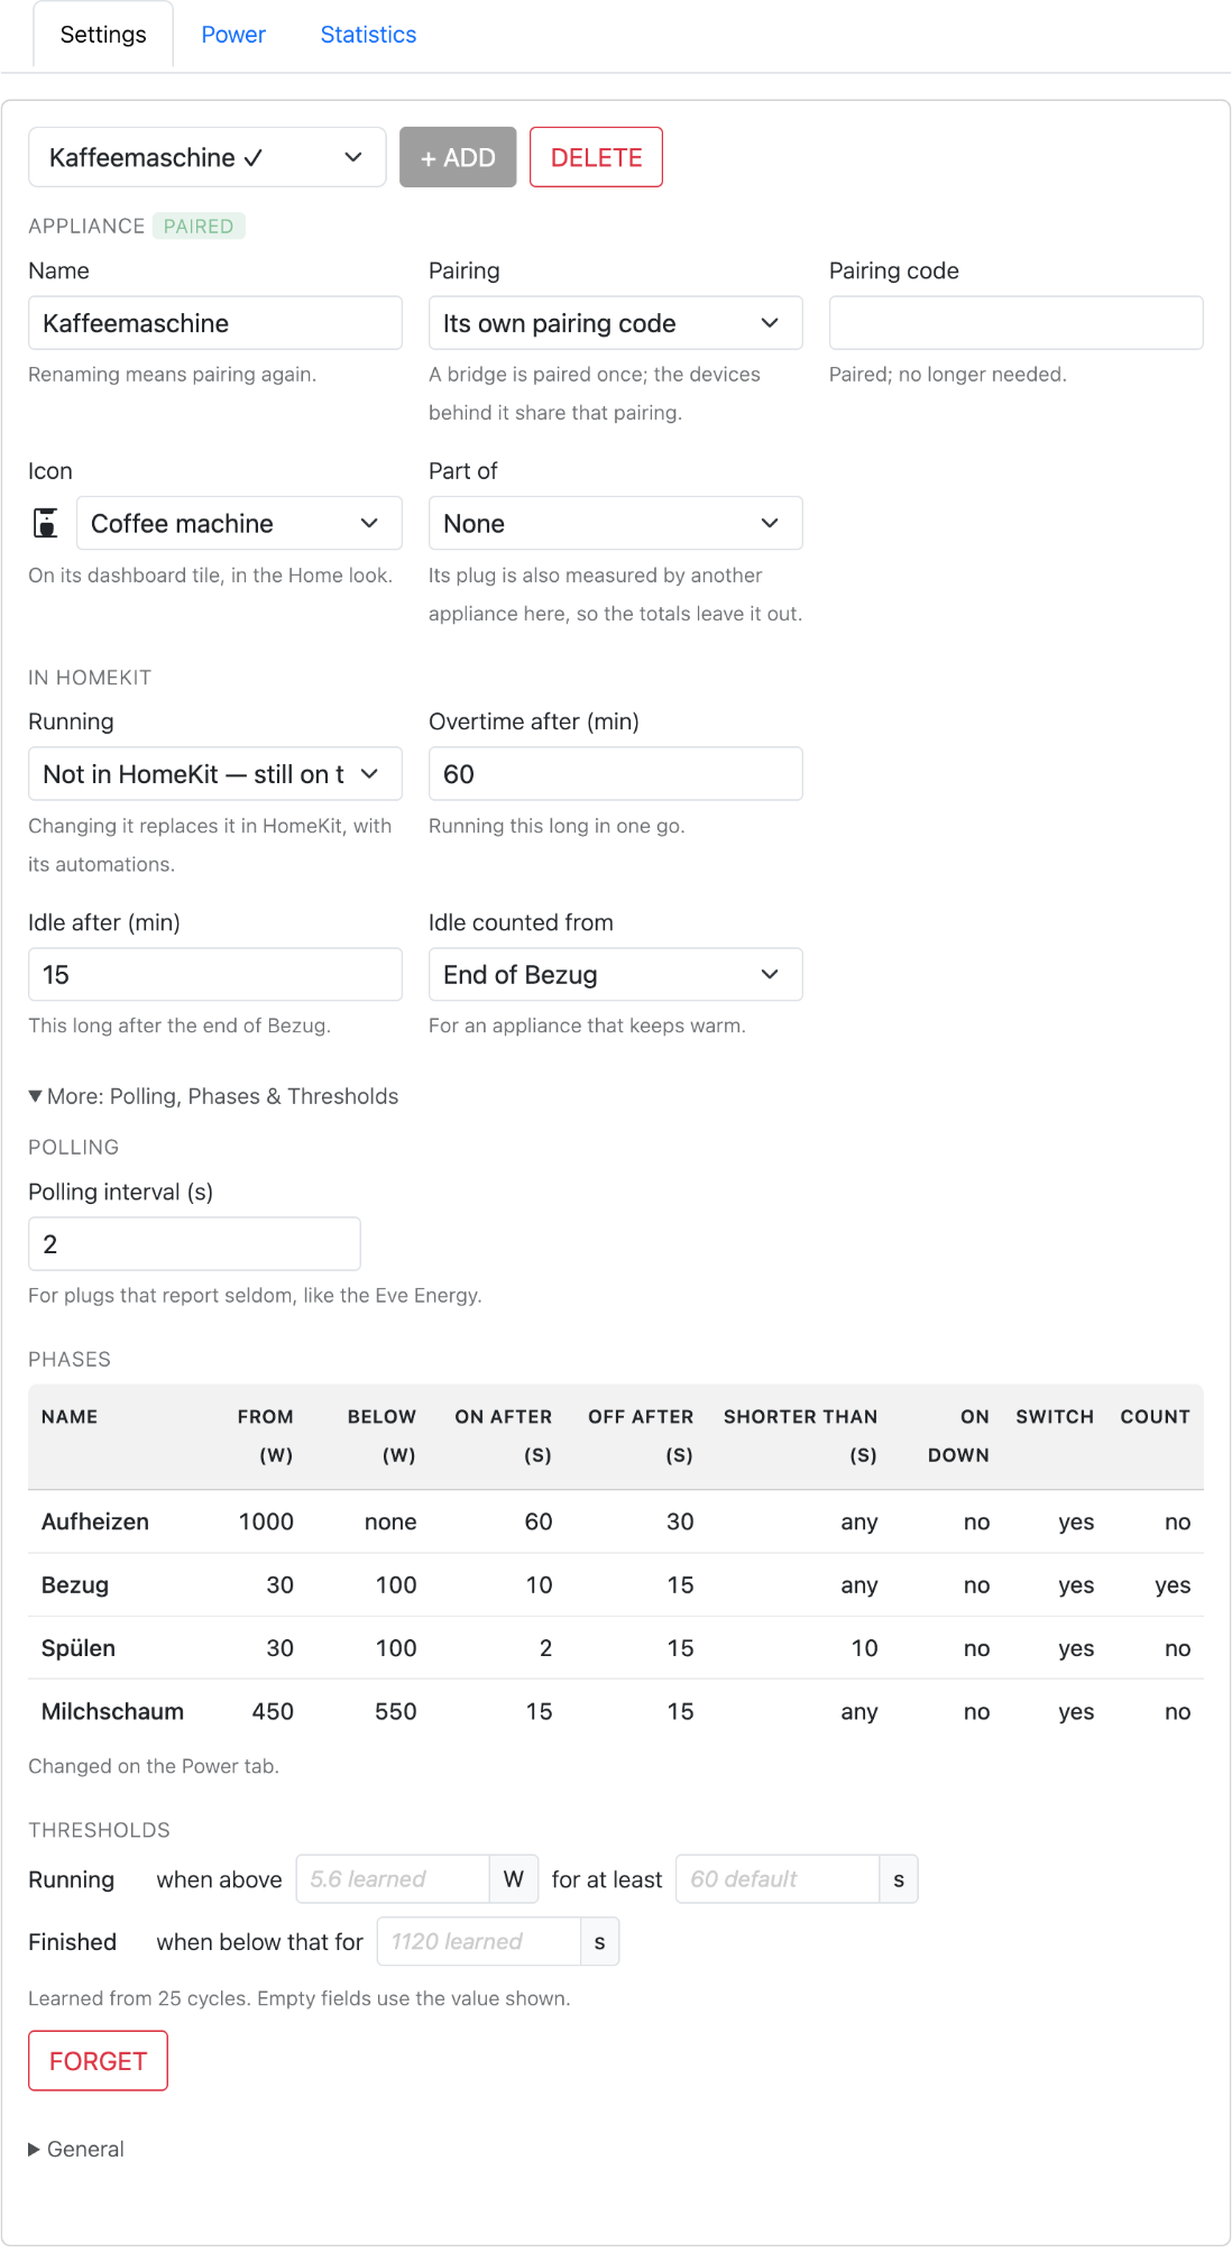
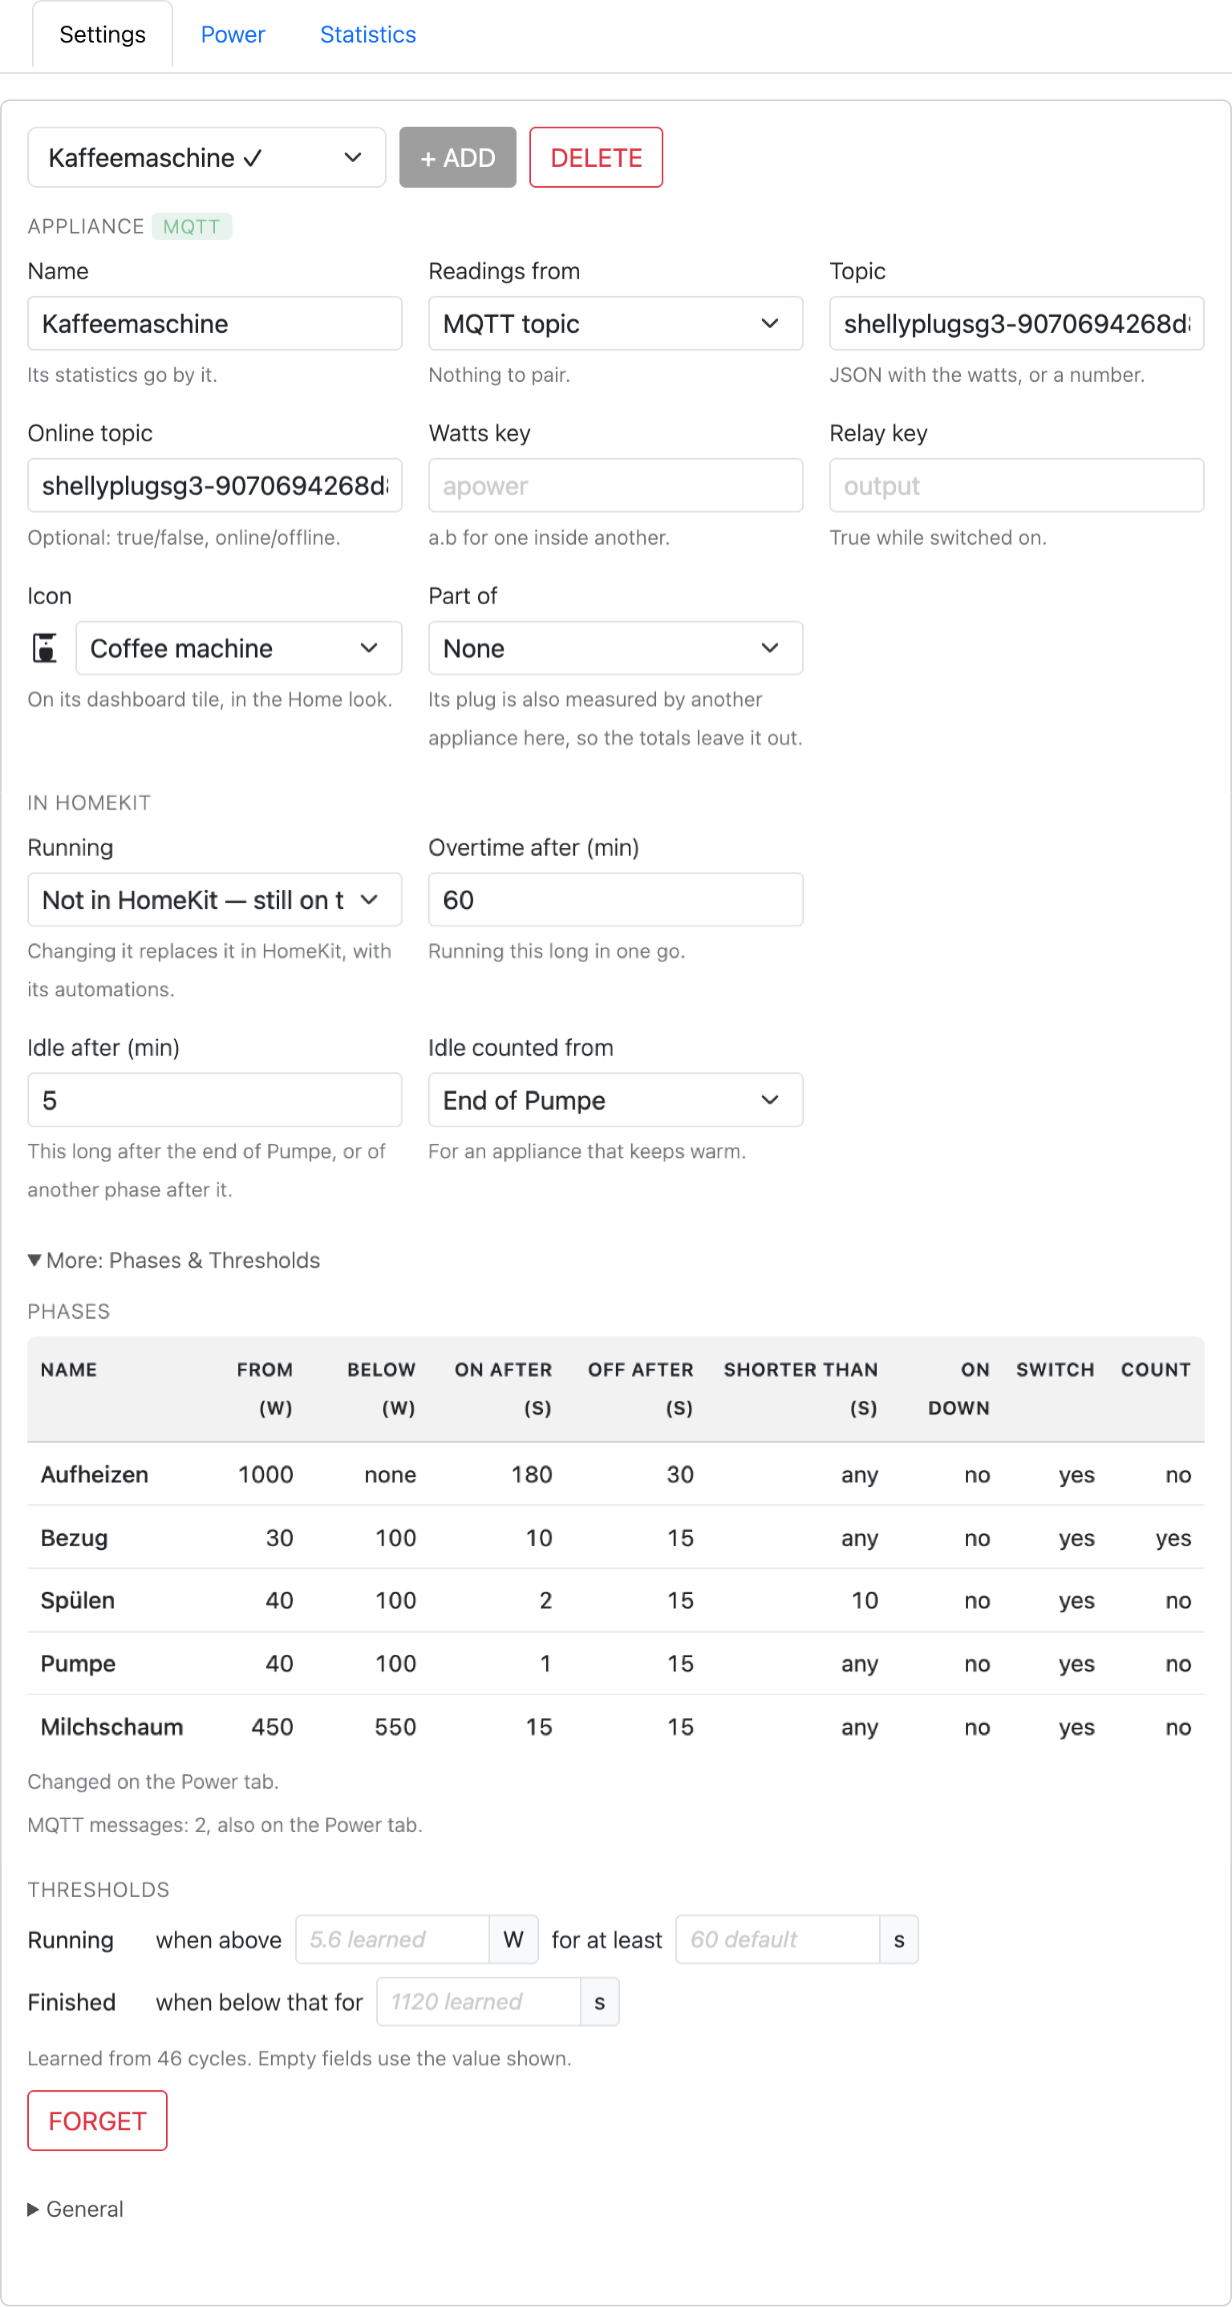
Settings: Readings from takes in the bridge's pairing, one row fewer; new settings screenshot
Claude-Session: https://claude.ai/code/session_01FXXeyGX9nkbXjdAycGNCsJ

diff --git a/homebridge-ui/public/settings.js b/homebridge-ui/public/settings.js
@@ -366,23 +366,6 @@
       // while chosen and not filled in yet.
       const viaMqtt = typeof device.mqttTopic === 'string';
       const topicError = (value) => (typeof value === 'string' && /[+#]/.test(value) ? 'One topic exactly: no + or #.' : '');
-      const readingsField = field('Readings from',
-        choice(viaMqtt ? 'mqtt' : 'matter', [['matter', 'Matter pairing'], ['mqtt', 'MQTT topic']], (value) => {
-          if (value === 'mqtt') {
-            device.mqttTopic = device.mqttTopic ?? '';
-            // A bridge's device is Matter's; the code stays, for going back.
-            for (const key of ['pairedWith', 'deviceId', 'endpoint']) {
-              delete device[key];
-            }
-          } else {
-            for (const key of ['mqttTopic', 'mqttOnlineTopic', 'mqttPowerKey', 'mqttRelayKey']) {
-              delete device[key];
-            }
-          }
-          changed();
-          render();
-        }),
-        viaMqtt && config.mqtt !== true ? 'MQTT is off: switch it on under General.' : 'A Shelly can publish its own.');
       const mqttFields = viaMqtt
         ? [
           field('Topic', text(device.mqttTopic, 'shellyplugsg3-…/status/switch:0', (value, input) => {
@@ -412,18 +395,41 @@
       const owners = config.devices
         .filter((d) => d !== device && d.name && !d.pairedWith && typeof d.mqttTopic !== 'string' && (metered[d.name]?.length ?? 0) > 1)
         .map((d) => d.name).sort(byName);
-      const pairingField = !viaMqtt && (owners.length || device.pairedWith)
-        ? field('Pairing',
-          choice(device.pairedWith ?? '', [['', 'Its own pairing code'], ...owners.map((name) => [name, `Shared with ${name} (a bridge)`])], (value) => {
-            setOrDrop(device, 'pairedWith', value);
-            if (value) {
-              delete device.pairingCode;
+      // Where its readings come from, in one list: its own Matter pairing, a
+      // bridge's it shares — offered only where more than one device
+      // measures, so a house of plain plugs sees nothing of it — or a topic.
+      const sources = [['own', 'Matter pairing'],
+        ...owners.map((name) => [`with:${name}`, `Matter via ${name}`])];
+      if (device.pairedWith && !owners.includes(device.pairedWith)) {
+        sources.push([`with:${device.pairedWith}`, `Matter via ${device.pairedWith} (not found)`]);
+      }
+      sources.push(['mqtt', 'MQTT topic']);
+      const readingsField = field('Readings from',
+        choice(viaMqtt ? 'mqtt' : device.pairedWith ? `with:${device.pairedWith}` : 'own', sources, (value) => {
+          if (value === 'mqtt') {
+            device.mqttTopic = device.mqttTopic ?? '';
+          } else {
+            for (const key of ['mqttTopic', 'mqttOnlineTopic', 'mqttPowerKey', 'mqttRelayKey']) {
+              delete device[key];
             }
-            changed();
-            render();
-          }),
-          'A bridge is paired once; the devices behind it share that pairing.')
-        : null;
+          }
+          // A bridge's device is the bridge's; the code stays, for going back.
+          const owner = value.startsWith('with:') ? value.slice('with:'.length) : '';
+          if (owner !== (device.pairedWith ?? '')) {
+            for (const key of ['deviceId', 'endpoint']) {
+              delete device[key];
+            }
+          }
+          setOrDrop(device, 'pairedWith', owner);
+          if (owner) {
+            delete device.pairingCode;
+          }
+          changed();
+          render();
+        }),
+        viaMqtt ? (config.mqtt === true ? 'Nothing to pair.' : 'MQTT is off: switch it on under General.')
+          : device.pairedWith ? 'A bridge is paired once; the devices behind it share that pairing.'
+            : 'Or a topic a plug publishes to, as a Shelly can.')
       const devices = metered[device.pairedWith || device.name] ?? [];
       const current = device.deviceId ?? (device.endpoint === undefined ? '' : `endpoint:${device.endpoint}`);
       const deviceOptions = [['', 'Every reading (a plug of its own)'],
@@ -493,11 +499,11 @@
           el('div', { class: 'om-set-grid om-set-rows' },
             field('Name', nameInput, viaMqtt ? 'Its statistics go by it.' : 'Renaming means pairing again.', nameError(device.name ?? '')),
             readingsField,
-            pairingField,
-            device.pairedWith ? deviceField : viaMqtt ? null : field('Pairing code', codeInput,
+            device.pairedWith ? deviceField : viaMqtt ? mqttFields[0] : field('Pairing code', codeInput,
               isPaired ? 'Paired; no longer needed.' : 'Home app: plug settings → Turn On Pairing Mode.',
               codeError(device.pairingCode ?? ''))),
-          viaMqtt ? el('div', { class: 'om-set-grid om-set-rows' }, ...mqttFields) : null,
+          // The topic where the code would be; the rest of it on a row of its own.
+          viaMqtt ? el('div', { class: 'om-set-grid om-set-rows' }, ...mqttFields.slice(1)) : null,
           el('div', { class: 'om-set-grid om-set-rows' },
             iconField,
             device.pairedWith || viaMqtt ? null : deviceField,

diff --git a/README.md b/README.md
@@ -127,7 +127,7 @@ the first plug.
 
 <picture>
   <source media="(prefers-color-scheme: dark)" srcset="https://raw.githubusercontent.com/rummeyer/homebridge-appliance-monitor/main/docs/screenshots/settings-dark.png">
-  <img src="https://raw.githubusercontent.com/rummeyer/homebridge-appliance-monitor/main/docs/screenshots/settings-light.png" alt="The Settings tab: an appliance picked from the list, with its pairing, its dashboard icon, Part of, how it shows in HomeKit, its Overtime time, on a line of its own its Idle time and what it counts from, and under More its polling interval, its phases and the thresholds it learned" width="760">
+  <img src="https://raw.githubusercontent.com/rummeyer/homebridge-appliance-monitor/main/docs/screenshots/settings-light.png" alt="The Settings tab: an appliance picked from the list, with where its readings come from (here an MQTT topic, with its online topic and keys), its dashboard icon, Part of, how it shows in HomeKit, its Overtime time, on a line of its own its Idle time and what it counts from, and under More its phases and the thresholds it learned" width="760">
 </picture>
 
 A paired plug is remembered by its name, so renaming it means pairing it
@@ -163,8 +163,8 @@ appliance chooses its device.
    warning that all of it counts as one appliance until a device is chosen.
 3. **Choose the devices.** Reopen the plugin settings: the appliance now
    has a **Device** field listing them. Choose its own. For each further
-   device, **+ Add** an appliance, set **Pairing** to *Shared with* the
-   first one — no code of its own — and choose its **Device**. Save, and
+   device, **+ Add** an appliance, set **Readings from** to *Matter via*
+   the first one — no code of its own — and choose its **Device**. Save, and
    restart the child bridge once more.
 4. The log now says, for each, `follows <device> (endpoint …, id …)`. An
    appliance whose device is not found says so, with the list to choose

diff --git a/CHANGELOG.md b/CHANGELOG.md
@@ -15,8 +15,9 @@ adheres to [semantic versioning](https://semver.org/spec/v2.0.0.html).
   whose Matter side has no power reading, as the Plug S Gen3's has not.
   `extras/shelly/power-mqtt.js` is a script for the Shelly that sends every
   change within a second, where its own status messages leave out small ones.
-  On the settings page, **Readings from** chooses between a Matter pairing
-  and an MQTT topic; with the topic, nothing of pairing or polling is shown.
+  On the settings page, **Readings from** chooses between the appliance's
+  own Matter pairing, a bridge's it shares (what **Pairing** was) and an
+  MQTT topic; with the topic, nothing of pairing or polling is shown.
 - `extras/shelly/heating-led.js`: a coffee machine's heating up on a Shelly
   plug's LED ring — red while it heats up, green once heated, dark while the
   plug is off — from the heating phase and a thermometer, if there is one.
